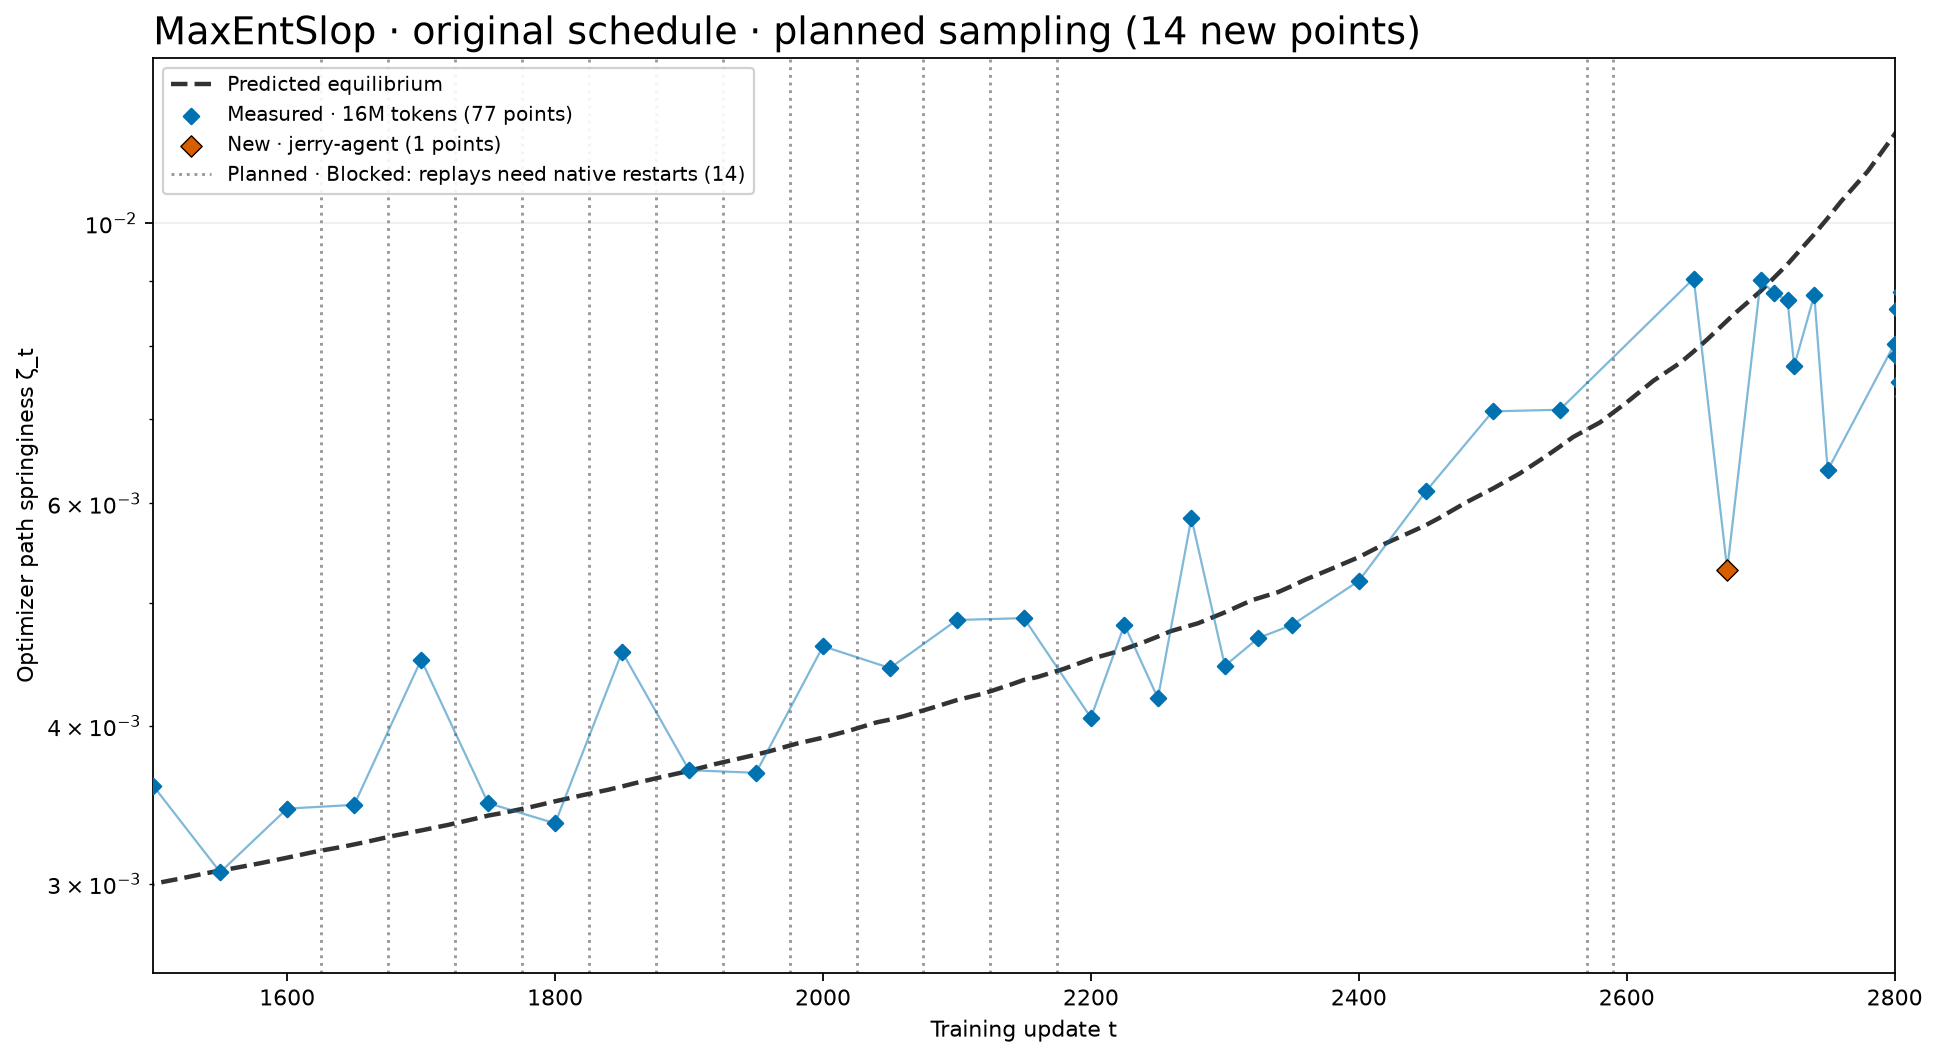
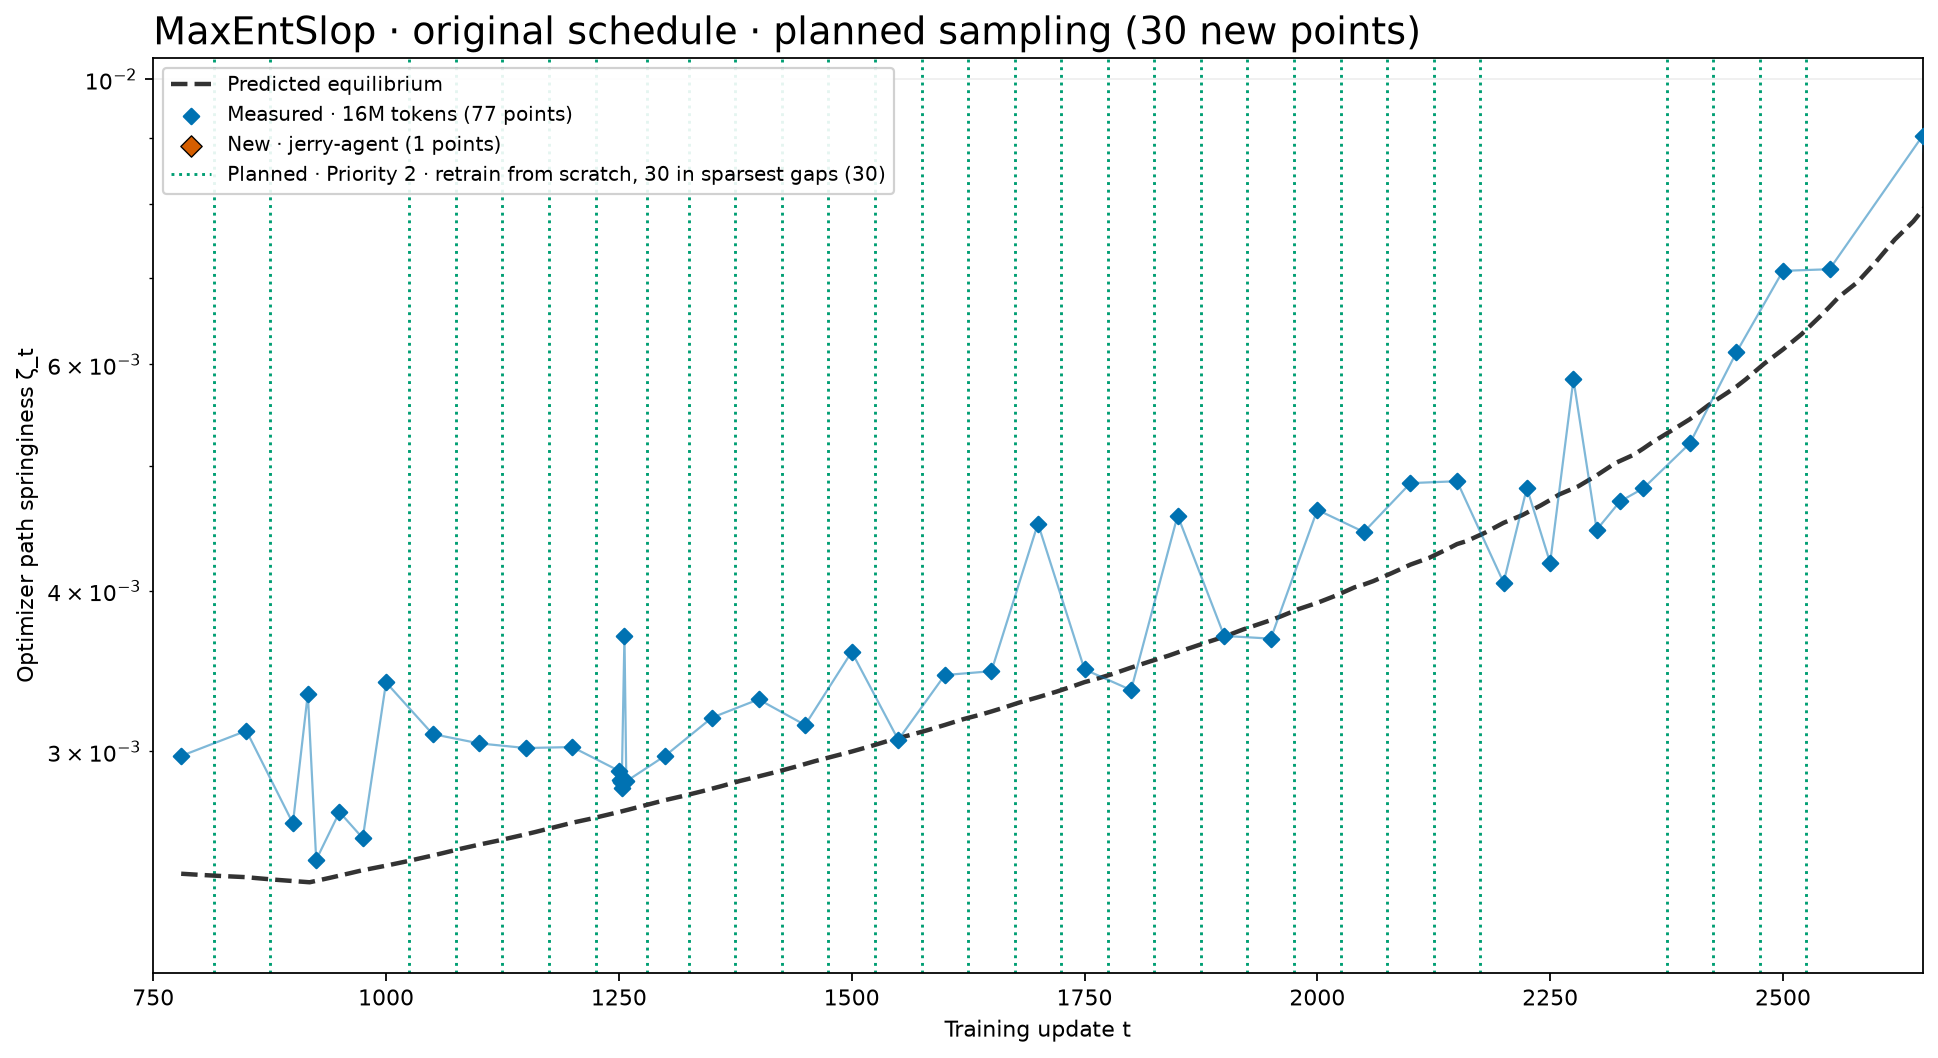
ROUND3 priority note: clarify MaxEnt point list; plots

diff --git a/requests/blog_six_20261028/ROUND3.md b/requests/blog_six_20261028/ROUND3.md
@@ -41,5 +41,5 @@ Push new `point_*.json` files and results (no `.pt` tensors), plus one status li
 ## Priority order (Jack, 2026-10-30 07:00Z) — overrides the order above
 
 1. **Increased momentum and LR ×0.5**: one node each, always. Search until each has a verified onset where ζ lies consistently above the line.
-2. **MaxEntSlop: 30 new points in its sparsest gaps** (all before 2600): 815, 875, 1025, 1075, …, 2175 (every 50), 1280, 2375, 2425, 2475, 2525. Job file: `jobs/maxent_scratch.json`. No MaxEnt restart exists, so **retrain native MaxEntSlop from scratch**: `train_gpt_muon_maxentslop.py` starts from step 0 (seed 0) when `RESUME_CHECKPOINT` is unset. Use `run_gaps.py` with anchor 0 and without the `input/maxentslop` resume (adapt `run_job.sh`/`run_gaps.py` as needed; note it in `RUN_NOTES.md`), capture these 30 updates, stop at 2526, and measure them. It's a fresh realization; keep its lineage name. Run it on whichever node is waiting (for example during the other arm's replay) or once an arm's onset is verified.
+2. **MaxEntSlop: 30 new points in its sparsest gaps** (all before 2600): 815, 875, then every 50 from 1025 to 2175 (with 1280 instead of 1275), then 2375, 2425, 2475, 2525. Job file: `jobs/maxent_scratch.json`. No MaxEnt restart exists, so **retrain native MaxEntSlop from scratch**: `train_gpt_muon_maxentslop.py` starts from step 0 (seed 0) when `RESUME_CHECKPOINT` is unset. Use `run_gaps.py` with anchor 0 and without the `input/maxentslop` resume (adapt `run_job.sh`/`run_gaps.py` as needed; note it in `RUN_NOTES.md`), capture these 30 updates, stop at 2526, and measure them. It's a fresh realization; keep its lineage name. Run it on whichever node is waiting (for example during the other arm's replay) or once an arm's onset is verified.
 3. **LR ×2 past 2700**: last; only when nothing above is runnable.
